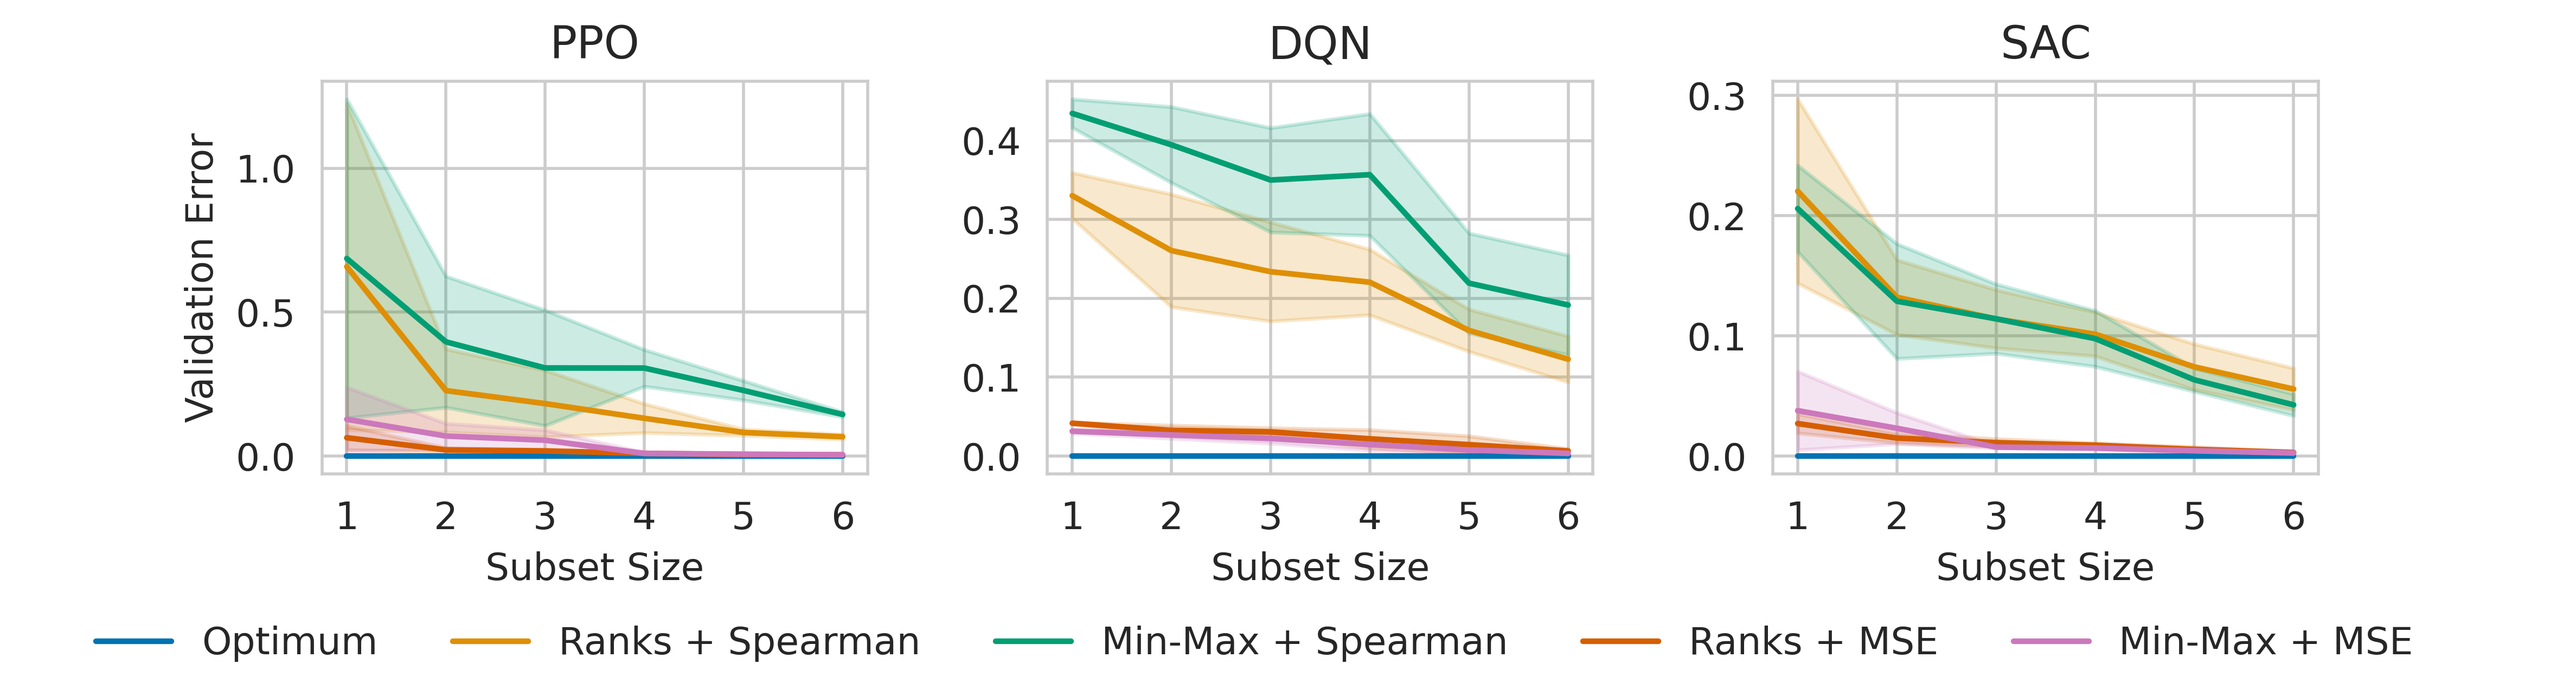
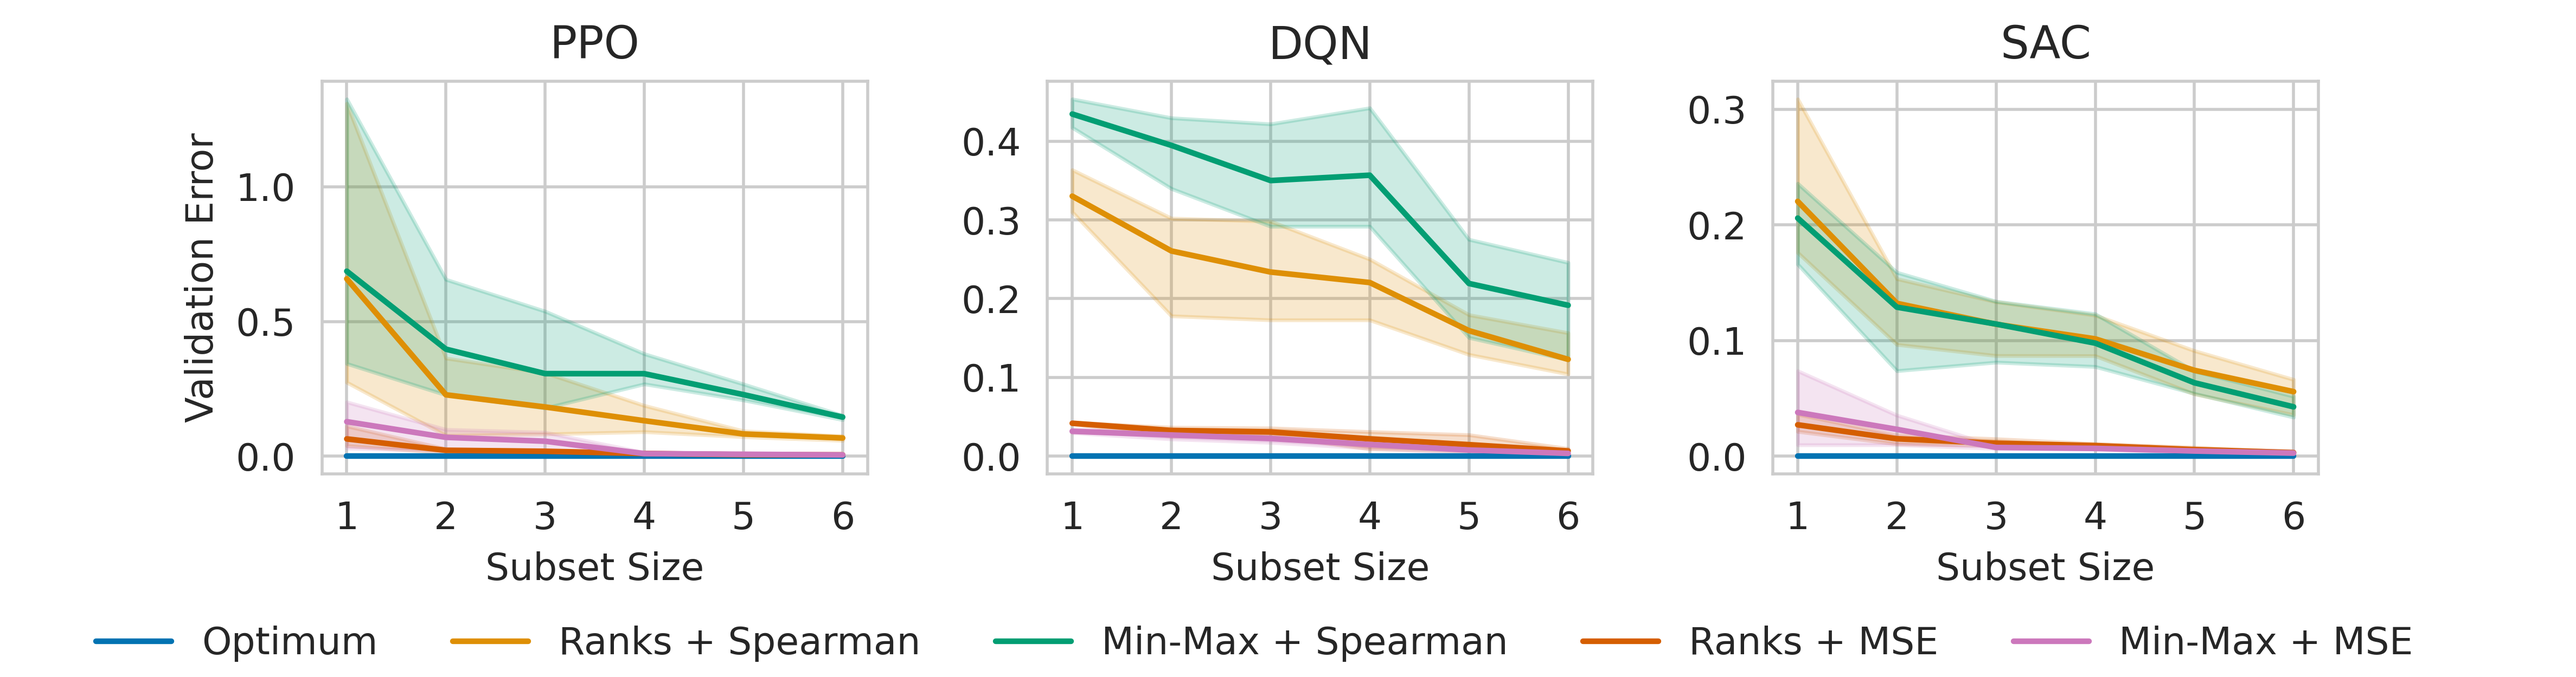
added CI for subset selection plots

diff --git a/runtime_comparisons/plot_optimizers_over_time.py b/runtime_comparisons/plot_optimizers_over_time.py
@@ -62,12 +62,8 @@ def read_opt_data(exp: str):
 
 
 def interpolate(opt_data: pd.DataFrame) -> pd.DataFrame:
-    result_path = os.path.join(OPT_RESULTS_DIR, f"{exp}.csv")
-    if os.path.isfile(result_path):
-        return pd.read_csv(result_path)
-
     interpolated_opt_datas = []
-
+    
     min_budget = opt_data[opt_data["optimizer"] == "rs"]["cum_budget"].min()
     max_budget = opt_data[opt_data["optimizer"] == "rs"]["cum_budget"].max()
 
@@ -79,7 +75,8 @@ def interpolate(opt_data: pd.DataFrame) -> pd.DataFrame:
 
         df_merged = pd.merge(df_merged, group_opt_data, on="cum_budget", how="left")
         interpolated_opt_data = df_merged.interpolate(method="linear")
-        interpolated_opt_data[interpolated_opt_data["cum_budget"] <= max_budget]
+        interpolated_opt_data = interpolated_opt_data[interpolated_opt_data["cum_budget"] <= max_budget + 1]
+
 
         interpolated_opt_data["seed"] = seed
         interpolated_opt_data["optimizer"] = OPTIMIZER_NAMES[optimizer]
@@ -88,9 +85,9 @@ def interpolate(opt_data: pd.DataFrame) -> pd.DataFrame:
 
     df = pd.concat(interpolated_opt_datas, ignore_index=True)
     interpolated_data = df[df["cum_budget"] % STEP_SIZE == 0]
-    del df
+    interpolated_data[interpolated_data["cum_budget"] <= max_budget]
 
-    interpolated_data.to_csv(result_path, index=False)
+    del df
 
     return interpolated_data
 
@@ -104,14 +101,19 @@ def plot_opt_over_time(exp: str):
     
     # W need to select the best configuration that we have for each budget
     best_config_opt_data = opt_data.groupby(["optimizer", "cum_budget", "seed"]).apply(lambda x: x.loc[x["performance"].idxmin()]).reset_index(drop=True)
-
-    interpolated_opt_data = interpolate(best_config_opt_data)
+    
+    result_path = os.path.join(OPT_RESULTS_DIR, f"{exp}.csv")
+    if os.path.isfile(result_path):
+        interpolated_opt_data = pd.read_csv(result_path)
+    else:
+        interpolated_opt_data = interpolate(best_config_opt_data)
+        interpolated_opt_data.to_csv(result_path, index=False)
 
     incumbent_opt_data = interpolated_opt_data.sort_values(by=["optimizer", "seed", "cum_budget"])
     incumbent_opt_data["incumbent"] = incumbent_opt_data.groupby(["optimizer", "seed"])["performance"].cummin()
     
     fig = plt.figure(figsize=(7, 5))
-    g = sns.lineplot(data=incumbent_opt_data, x="cum_budget", y="incumbent", hue="optimizer", errorbar="sd")
+    g = sns.lineplot(data=incumbent_opt_data, x="cum_budget", y="incumbent", hue="optimizer", errorbar=("ci", 95))
     g.set_title(f"{algorithm.upper()} on {environment}")
     g.set_ylabel("Cost")
     g.set_xlabel("Optimization Budget")
@@ -159,8 +161,5 @@ def plot_3_opt_over_time(experiments: list[str]):
 if __name__ == "__main__":
     # plot_3_opt_over_time(["ppo_Acrobot-v1", "dqn_CartPole-v1", "sac_Pendulum-v1"])
     for exp in os.listdir("results/smac_mf"):
-        try:
-            plot_opt_over_time(exp)
-            gc.collect()
-        except:
-            pass
+        plot_opt_over_time(exp)
+        gc.collect()

diff --git a/subset_selection/subset_selection.py b/subset_selection/subset_selection.py
@@ -321,7 +321,7 @@ def plot_method_comparison(method_results: pd.DataFrame):
 
     for i, algorithm in enumerate(algorithms):
         data = method_results[method_results["algorithm"] == algorithm]
-        sns.lineplot(data=data, x="n_subset", y="score", hue="strategy", ax=axes[i], errorbar="sd")
+        sns.lineplot(data=data, x="n_subset", y="score", hue="strategy", ax=axes[i], errorbar=("ci", 95))
         axes[i].set_title(algorithm.upper())
         axes[i].set_ylabel("")
         axes[i].set_xlabel("Subset Size")
@@ -348,7 +348,7 @@ def plot_method_comparison_corr(method_results: pd.DataFrame):
 
     for i, algorithm in enumerate(algorithms):
         data = method_results[method_results["algorithm"] == algorithm]
-        sns.lineplot(data=data, x="n_subset", y="correlation", hue="strategy", ax=axes[i], errorbar="sd")
+        sns.lineplot(data=data, x="n_subset", y="correlation", hue="strategy", ax=axes[i], errorbar=("ci", 95))
         axes[i].set_title(algorithm.upper())
         axes[i].set_ylabel("")
         axes[i].set_xlabel("Subset Size")
@@ -376,7 +376,7 @@ def plot_method_comparison_single_strategy(method_results: pd.DataFrame, strateg
 
     for i, algorithm in enumerate(algorithms):
         data = method_results[method_results["algorithm"] == algorithm]
-        sns.lineplot(data=data, x="n_subset", y="correlation", hue="strategy", ax=axes[i], errorbar="sd")
+        sns.lineplot(data=data, x="n_subset", y="correlation", hue="strategy", ax=axes[i], errorbar=("ci", 95))
         axes[i].set_title(algorithm.upper())
         axes[i].set_ylabel("")
         axes[i].set_xlabel("Subset Size")
